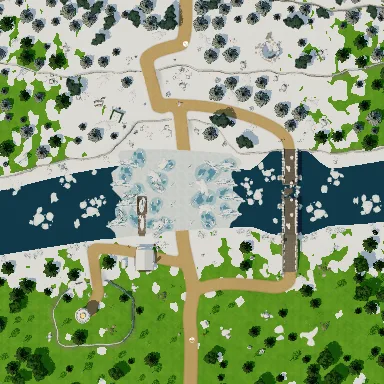
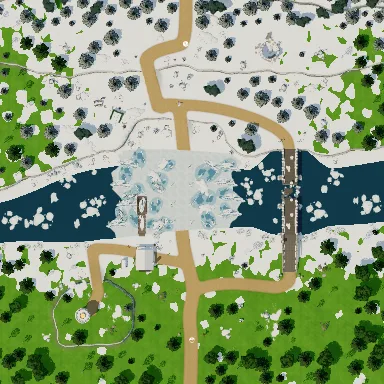
The frozen river comes out of the karst peaks; the downs' way to Highland Hill meets its gate
An arm of the jade river turns away east below the lotus pond, passes
under the road by a second slab bridge and winds out over the karst
peaks' east edge, widening and darkening into the frozen river's water,
floes coming up it from the edge. The frozen river narrows upstream to
meet it at the same place and width. Two sheer towers stand aside from
its course, and the south-east terrace's ramp and the pond path move
clear of it.

The highland downs' east way out to Highland Hill moves to n 0.44 to
meet the town's west gate, its track, arrival point and signs with it.

Claude-Session: https://claude.ai/code/session_01EoAgD4nUuveX489aYfu2wP

diff --git a/src/world3d/field_karst_peaks.ts b/src/world3d/field_karst_peaks.ts
@@ -1,14 +1,18 @@
 // ภูผาหินปูน (the karst peaks), monsters Lv 98-110: limestone country north of the ancient
 // forest, on the way up to the downs. Sheer towers of pale rock stand everywhere out of a green
 // floor, green on their ledges and tops, mist lying round their feet; a jade-green river winds
-// through it from the north-west to the south, bamboo rafts drifting on it.
+// through it from the north-west to the south, bamboo rafts drifting on it. Below the lotus pond
+// an arm of it turns away east, passes under the road by a second slab bridge and winds out
+// between the towers over the east edge, broadening and darkening as it goes: it is the frozen
+// river's head.
 //
 // The road keeps to the east bank from the way in from the forest (south) to the way on to the
 // downs (north), past a lotus pond and the raftsmen's landing. A stone slab bridge crosses to the
 // west bank, where bamboo groves crowd round a tower of two steps: two flights of stone stairs
 // climb it to a red pavilion on its top, looking out over the river. On the east bank a broad
 // tower can be climbed by an earth ramp to a lookout among the peaks, and in the south-east a
-// low terrace with a pillar rising from it. The rest of the towers stand sheer, with no way up.
+// low terrace with a pillar rising from it, its ramp on the side towards the road. The rest of the
+// towers stand sheer, with no way up.
 //
 // Up towards the north edge, where the snowy downs begin, the snow lies in the grass in patches
 // that thicken northwards and pines stand among the broadleaf trees; along the east edge,
@@ -17,6 +21,7 @@
 // Laid out at full size (north +X, west +Y) and scaled by TOWN_SCALE in finishField.
 //   ways out: south -> elder_forest, north -> highland_downs
 
+import * as THREE from "three";
 import { FieldBuilder } from "./field";
 import type { Town } from "./town";
 import { useKits, seeded } from "./town";
@@ -25,10 +30,11 @@ import type { XY } from "./kits/westmount";
 import { blobPoly } from "./kits/snowland";
 import { KIT as PLAINS } from "./kits/plains";
 import { KIT as OSAKI } from "./kits/osaki";
+import { KIT as NORTHCOLD } from "./kits/northcold";
 import type { NpcSpec } from "../npcs";
 import type { SolidSpec } from "../world";
 
-useKits(WESTMOUNT, PLAINS, OSAKI);
+useKits(WESTMOUNT, PLAINS, OSAKI, NORTHCOLD);
 
 const R = 5500; // the walkable box
 const A = 9000; // the ground
@@ -36,6 +42,47 @@ const A = 9000; // the ground
 // ---- the river: in from the north edge, winding south-west, out at the south edge ----
 const RIVER: XY[] = smooth([[A, 3200], [6000, 2600], [4200, 3400], [2600, 2400], [1000, 2900], [-600, 1900], [-2200, 2500], [-3800, 1600], [-5600, 2300], [-A, 1800]], 6);
 const RW = 700;
+const ss = (a: number, b: number, v: number) => {
+  const t = Math.min(1, Math.max(0, (v - a) / (b - a)));
+  return t * t * (3 - 2 * t);
+};
+// the arm that turns away east below the pond and goes out over the east edge to become the
+// frozen river: as wide as the jade river where it leaves it, as wide as the frozen river where it
+// meets it at the edge (the world map's picture of the field reaches 6676 out)
+const ARM: XY[] = smooth([[-400, 1950], [-100, 1150], [-200, 300], [-300, -350], [-430, -900], [-750, -1700], [-1000, -2700], [-1150, -3600], [-1500, -4450], [-1350, -5200], [-1110, -6000], [-1077, -6676], [-1077, -7600], [-1077, -9400]], 6);
+const armW = (y: number) => 700 + 711 * ss(-4300, -6676, y);
+// A strip along a polyline, `w` across at each point, as a polygon.
+function bandAlong(pts: XY[], w: (p: XY) => number): XY[] {
+  const left: XY[] = [], right: XY[] = [];
+  pts.forEach((p, i) => {
+    const a = pts[Math.max(0, i - 1)], b = pts[Math.min(pts.length - 1, i + 1)], L = Math.hypot(b[0] - a[0], b[1] - a[1]) || 1, h = w(p) / 2;
+    left.push([p[0] - ((b[1] - a[1]) / L) * h, p[1] + ((b[0] - a[0]) / L) * h]);
+    right.push([p[0] + ((b[1] - a[1]) / L) * h, p[1] - ((b[0] - a[0]) / L) * h]);
+  });
+  return [...left, ...right.reverse()];
+}
+// The arm's water, its colour running from the jade river's where it leaves it to the frozen
+// river's dark water out towards the east edge (a sheet in the ground's terms, Y up).
+function armWater(z: number): THREE.Mesh {
+  const jade = new THREE.Color("#4f8f6c"), cold = new THREE.Color("#1d4054"), pos: number[] = [], col: number[] = [], idx: number[] = [];
+  ARM.forEach((p, i) => {
+    const a = ARM[Math.max(0, i - 1)], b = ARM[Math.min(ARM.length - 1, i + 1)], L = Math.hypot(b[0] - a[0], b[1] - a[1]) || 1, h = (armW(p[1]) + 120) / 2;
+    const c = jade.clone().lerp(cold, ss(-1500, -5500, p[1]));
+    for (const s of [1, -1]) {
+      pos.push(p[0] - ((b[1] - a[1]) / L) * h * s, z, -(p[1] + ((b[0] - a[0]) / L) * h * s));
+      col.push(c.r, c.g, c.b);
+    }
+    if (i > 0) idx.push(2 * i - 2, 2 * i - 1, 2 * i, 2 * i - 1, 2 * i + 1, 2 * i);
+  });
+  const geo = new THREE.BufferGeometry();
+  geo.setAttribute("position", new THREE.Float32BufferAttribute(pos, 3));
+  geo.setAttribute("color", new THREE.Float32BufferAttribute(col, 3));
+  geo.setIndex(idx);
+  geo.computeVertexNormals();
+  const m = new THREE.Mesh(geo, new THREE.MeshStandardMaterial({ vertexColors: true, roughness: 0.06, transparent: true, opacity: 0.92 }));
+  m.receiveShadow = true;
+  return m;
+}
 
 // ---- the towers you can climb ----
 // the pavilion's tower on the west bank: a first step (400) and the top (800), stone stairs up each
@@ -49,14 +96,15 @@ const P3P: XY[] = blob(P3, 1150, 1300, 3, 20);
 const R3 = rampOff(P3P[3], P3P[4], P3, 1400, 440);
 const P4: XY = [-3000, -3300];
 const P4P: XY[] = blob(P4, 1100, 1000, 7, 20);
-const R4 = rampOff(P4P[0], P4P[1], P4, 1050, 440);
+const R4 = rampOff(P4P[4], P4P[5], P4, 1050, 440); // on its west side, towards the road (the arm runs past its north)
 const P4PILLAR: XY[] = blob([-3300, -3500], 450, 420, 9, 16);
-// sheer towers (no way up): in the field and all round past its edge
+// sheer towers (no way up): in the field and all round past its edge (two of them stand aside
+// from the arm's course)
 const TOWERS: [XY, number, number][] = [
-  [[4300, -4300], 900, 2400], [[-500, -4600], 750, 1900], [[400, -3800], 600, 1500], [[2300, 1300], 550, 1700],
+  [[4300, -4300], 900, 2400], [[-2900, -5300], 650, 1900], [[400, -3800], 600, 1500], [[2300, 1300], 550, 1700],
   [[-3500, 450], 550, 1500], [[2800, 4600], 700, 2000], [[4100, 5000], 650, 1800], [[-4800, -1700], 600, 1600],
   [[-6800, -6500], 1200, 2600], [[-7000, -2600], 1000, 2200], [[-7200, 4000], 1300, 2800], [[-6500, 7000], 1000, 2400],
-  [[0, -7200], 1300, 2600], [[3600, -7000], 1000, 2100], [[-3500, -7300], 1100, 2300], [[7000, -4000], 1200, 2800],
+  [[1400, -7400], 900, 2600], [[3600, -7000], 1000, 2100], [[-3500, -7300], 1100, 2300], [[7000, -4000], 1200, 2800],
   [[7400, -1500], 800, 2100], [[7000, 6500], 1100, 2600], [[2500, 7300], 1000, 2300], [[-2500, 7500], 1200, 2500],
   [[6500, 4900], 900, 2200], [[-7600, 700], 700, 1900],
 ];
@@ -69,11 +117,9 @@ const LANDING: XY = [3800, 2350];
 // ---- the snow: how much of the ground lies under it (0 green, 1 white), thickening northwards
 // towards the snowy downs and a little towards the frozen river on the east (the world map's
 // picture of the field reaches 6676 out) ----
-const ss = (a: number, b: number, v: number) => {
-  const t = Math.min(1, Math.max(0, (v - a) / (b - a)));
-  return t * t * (3 - 2 * t);
-};
-const snowCover = (x: number, y: number): number => 1 - (1 - 0.62 * ss(3000, 6676, x)) * (1 - 0.25 * ss(-4000, -6676, y));
+// (and more of it on the arm's banks out by the east edge, where the frozen river's shore is white)
+const snowCover = (x: number, y: number): number =>
+  1 - (1 - 0.62 * ss(3000, 6676, x)) * (1 - 0.25 * ss(-4000, -6676, y)) * (1 - 0.7 * ss(-5000, -6676, y) * (1 - ss(800, 1700, Math.abs(x + 1077))));
 // Patches where the snow shows through the grass: blobs on a jittered grid, each there with the
 // chance snowCover gives and the bigger the likelier, so they run together where it nears 1
 // (their own seed, so nothing else in the field moves).
@@ -110,6 +156,11 @@ export function build(quality: { flowers: number }): Town {
   let bax: XY = [-nb.dir[1], nb.dir[0]];
   if (bax[1] < 0) bax = [-bax[0], -bax[1]];
   const BR = { at: nb.at, off: (k: number): XY => [nb.at[0] + bax[0] * k, nb.at[1] + bax[1] * k] };
+  // and the one where the road crosses the arm
+  const na = nearestOn(ARM, [-300, -330]);
+  let aax: XY = [-na.dir[1], na.dir[0]];
+  if (aax[1] < 0) aax = [-aax[0], -aax[1]];
+  const BR2 = na.at;
 
   // ---- the road and the paths ----
   const S_EXIT: XY = [-5150, -800], N_EXIT: XY = [5150, 1760];
@@ -117,29 +168,38 @@ export function build(quality: { flowers: number }): Town {
   const BRIDGE_WAY: XY[] = [...smooth([[400, -150], [900, 900], [1300, 1700], BR.off(-850)]), ...smooth([BR.off(850), [1300, 3700], beyond(ST1.top, ST1.bottom, 400)])];
   const STAIRS: XY[] = [ST1.bottom, ST1.top, ...smooth([beyond(ST1.bottom, ST1.top, 300), [-950, 3550], [-2000, 3450], [-3000, 3600], [-3400, 4000], beyond(ST2.top, ST2.bottom, 250)]), ST2.bottom, ST2.top, beyond(ST2.bottom, ST2.top, 250)];
   const LOOKOUT_WAY: XY[] = [...smooth([[3600, 50], beyond(R3.top, R3.bottom, 400)]), R3.bottom, R3.top, ...smooth([beyond(R3.bottom, R3.top, 400), [P3[0] + 100, P3[1] + 300]])];
-  const TERRACE_WAY: XY[] = [...smooth([[-2400, -300], [-1500, -1200], [-700, -2200], beyond(R4.top, R4.bottom, 400)]), R4.bottom, R4.top, ...smooth([beyond(R4.bottom, R4.top, 350), [-2700, -2900]])];
-  const POND_WAY: XY[] = smooth([[-900, -450], [-600, 150], [-450, 650]]);
+  const TERRACE_WAY: XY[] = [...smooth([[-2400, -300], [-2650, -800], beyond(R4.top, R4.bottom, 400)]), R4.bottom, R4.top, ...smooth([beyond(R4.bottom, R4.top, 350), [-2650, -3000]])];
+  const POND_WAY: XY[] = smooth([[-1800, -400], [-1700, -150], [-1600, 30]]);
   const LANDING_WAY: XY[] = smooth([[4400, 950], [4050, 1800], LANDING]);
   const TRACKS = [ROAD, BRIDGE_WAY, STAIRS, LOOKOUT_WAY, TERRACE_WAY, POND_WAY, LANDING_WAY];
   const roads = TRACKS.map((t, i) => band(t, i === 0 ? 460 : i === 2 ? 420 : 380));
 
   const area = { x0: -A, y0: -A, x1: A, y1: A };
-  const ground = f.ground({ area, roads, plazas: [], water: [band(RIVER, RW), POND], base: "snow", road: [0.86, 0.78, 0.66] });
+  const armBand = bandAlong(ARM, (p) => armW(p[1]));
+  const ground = f.ground({ area, roads, plazas: [], water: [band(RIVER, RW), armBand, POND], base: "snow", road: [0.86, 0.78, 0.66] });
   // the grass: a second ground a hair over the snow, cut away in the patches where the snow lies
   const patches = snowPatches({ x0: 2000, x1: A, y0: -A, y1: A }, 3071).concat(snowPatches({ x0: -A, x1: 2000, y0: -A, y1: -3600 }, 3072));
-  const grass = f.ground({ area, roads, plazas: [], water: [band(RIVER, RW), POND, ...patches], base: "grass", road: [0.86, 0.78, 0.66] });
+  const grass = f.ground({ area, roads, plazas: [], water: [band(RIVER, RW), armBand, POND, ...patches], base: "grass", road: [0.86, 0.78, 0.66] });
   grass.mesh.position.y += 3;
   grass.mesh.renderOrder = 1;
 
-  // ---- the river and the pond: green water over a dark bed ----
+  // ---- the river, its arm and the pond: green water (darkening down the arm) over a dark bed ----
   const bed = sheet(band(RIVER, RW + 160), -70, "Westmount_CliffMoss");
   const river = sheet(band(RIVER, RW + 120), -14, "Westmount_River");
+  const armBed = sheet(bandAlong(ARM, (p) => armW(p[1]) + 160), -70, "Westmount_CliffMoss");
+  const arm = armWater(-15);
   const pondBed = sheet(blob(POND_C, 950, 750, 5, 22), -60, "Westmount_CliffMoss");
   const pond = sheet(blob(POND_C, 920, 720, 5, 22), -14, "Westmount_River");
   for (const part of pieces(RIVER, [BR.at], 170)) f.blockBand(part, RW + 60, { step: 230 });
+  for (const part of pieces(ARM, [BR2], 170))
+    for (let i = 0; i + 1 < part.length; i++) f.blockBand([part[i], part[i + 1]], armW((part[i][1] + part[i + 1][1]) / 2) + 60, { step: 230 });
   f.blockBand([...POND, POND[0]], 180, { step: 200 });
   f.extra.push({ kind: "water", x: POND_C[0], y: POND_C[1], r: 500 });
   put("westmount:slab_bridge", BR.at, runAlong(bax[0], bax[1]), { solid: SLAB_BRIDGE_SOLIDS });
+  put("westmount:slab_bridge", BR2, runAlong(aax[0], aax[1]), { solid: SLAB_BRIDGE_SOLIDS });
+  // floes come up the arm from the frozen river, as far as the edge of the field
+  for (const [g, h, sc] of [[[-1100, -6400], 40, 0.9], [[-1150, -5900], 200, 0.7], [[-1300, -7200], 120, 1]] as [XY, number, number][])
+    put("northcold:drift_floes", nearestOn(ARM, g).at, h, { z: -14, s: sc, solid: "none" });
 
   // ---- ways out ----
   f.exit("elder_forest", S_EXIT, [-4450, -750]);
@@ -148,7 +208,8 @@ export function build(quality: { flowers: number }): Town {
   // ---- placing things ----
   const taken: [number, number, number][] = [];
   const nearTrack = (x: number, y: number, d: number) => TRACKS.some((t) => toLine([x, y], t) < d);
-  const wet = (x: number, y: number, d: number) => toLine([x, y], RIVER) < RW / 2 + d || inPoly(POND, x, y) || Math.hypot(x - POND_C[0], y - POND_C[1]) < 800 + d;
+  const wet = (x: number, y: number, d: number) =>
+    toLine([x, y], RIVER) < RW / 2 + d || toLine([x, y], ARM) < armW(y) / 2 + d || inPoly(POND, x, y) || Math.hypot(x - POND_C[0], y - POND_C[1]) < 800 + d;
   const free = (x: number, y: number, r: number, gap = 0) =>
     [[0, 0], [r, 0], [-r, 0], [0, r], [0, -r]].every(([dx, dy]) => ground.kind(x + dx, y + dy) === 0) &&
     !wet(x, y, r * 0.5) && f.level(x, y, r) && !taken.some(([tx, ty, tr]) => Math.hypot(tx - x, ty - y) < tr + r + gap);
@@ -171,6 +232,7 @@ export function build(quality: { flowers: number }): Town {
   };
   for (const t of TRACKS) for (let i = 0; i < t.length; i += 2) take(t[i][0], t[i][1], 200);
   take(BR.at[0], BR.at[1], 900);
+  take(BR2[0], BR2[1], 900);
 
   // ---- the pavilion's tower: the stairs, the pavilion on the top ----
   for (const st of [ST1, ST2]) put("westmount:stone_stairs", [(st.top[0] + st.bottom[0]) / 2, (st.top[1] + st.bottom[1]) / 2], runAlong(st.top[0] - st.bottom[0], st.top[1] - st.bottom[1]), { solid: "none" });
@@ -251,16 +313,18 @@ export function build(quality: { flowers: number }): Town {
     const n = nearestOn(RIVER, g);
     put("westmount:karst_spire", [n.at[0] + (rnd() - 0.5) * 120, n.at[1] + (rnd() - 0.5) * 120], rnd() * 360, { s: 0.45 + rnd() * 0.2, ...ring(150) });
   }
-  // the reeds and rocks along the banks
-  for (let i = 2; i < RIVER.length - 2; i += 2) {
-    const [ax, ay] = RIVER[i], [bx, by] = RIVER[i + 1], L = Math.hypot(bx - ax, by - ay) || 1;
-    for (const s of [-1, 1]) {
-      if (rnd() < 0.4) continue;
-      const o = RW / 2 + 60 + rnd() * 100, x = ax - ((by - ay) / L) * s * o, y = ay + ((bx - ax) / L) * s * o;
-      if (!inBox(x, y) || nearTrack(x, y, 300) || !f.level(x, y, 100) || taken.some(([tx, ty, tr]) => Math.hypot(tx - x, ty - y) < tr + 80)) continue;
-      prop(rnd() < 0.6 ? "plains:reeds" : "plains:flat_rock", [x, y], rnd() * 360, 90, { s: 0.6 + rnd() * 0.4, solid: "none" });
+  // the reeds and rocks along the banks of the river and its arm (none out in the other's water)
+  for (const [line, half, other] of [[RIVER, () => RW / 2, ARM], [ARM, (y: number) => armW(y) / 2, RIVER]] as [XY[], (y: number) => number, XY[]][])
+    for (let i = 2; i < line.length - 2; i += 2) {
+      const [ax, ay] = line[i], [bx, by] = line[i + 1], L = Math.hypot(bx - ax, by - ay) || 1;
+      for (const s of [-1, 1]) {
+        if (rnd() < 0.4) continue;
+        const o = half(ay) + 60 + rnd() * 100, x = ax - ((by - ay) / L) * s * o, y = ay + ((bx - ax) / L) * s * o;
+        if (!inBox(x, y) || nearTrack(x, y, 300) || !f.level(x, y, 100) || taken.some(([tx, ty, tr]) => Math.hypot(tx - x, ty - y) < tr + 80)) continue;
+        if (other === ARM ? toLine([x, y], ARM) < armW(y) / 2 + 40 : toLine([x, y], RIVER) < RW / 2 + 40) continue;
+        prop(rnd() < 0.6 ? "plains:reeds" : "plains:flat_rock", [x, y], rnd() * 360, 90, { s: 0.6 + rnd() * 0.4, solid: "none" });
+      }
     }
-  }
 
   // ---- past the edge: woods and bamboo between the towers (pines among them towards the snowy
   // north), greenery on their tops ----
@@ -282,6 +346,7 @@ export function build(quality: { flowers: number }): Town {
         "แม่น้ำสายนี้เขียวใสเหมือนหยก ไหลมาจากเขาทางเหนือ ข้าถ่อแพอยู่ที่นี่มาทั้งชีวิตแล้ว",
         "เช้า ๆ หมอกจะลอยคลุมโคนผาจนมองไม่เห็นฝั่ง อย่าเดินเข้าใกล้น้ำตอนนั้นนะ",
         "ทางเหนือขึ้นไปเป็นที่ราบเนินเขาของไฮแลนด์ ทางใต้ลงไปก็ป่าโบราณ",
+        "ใต้สระบัวมีแควแยกออกไปทางตะวันออก ยิ่งไหลไปน้ำยิ่งเข้มยิ่งเย็น ออกไปพ้นผาก็กลายเป็นแม่น้ำเยือกแข็ง",
       ] },
     { id: "karst_painter", x: PAVILION[0] - 700, y: PAVILION[1] + 450, face: 30, name: "ซิ่วหลาน", title: "จิตรกรแห่งศาลาริมผา", role: "talk",
       look: { gender: "female", hair: "twintail", hairColor: "rose", eyes: "teal", top: "top_adventurer_teal", bottom: "bottom_adventurer_sand" },
@@ -293,7 +358,7 @@ export function build(quality: { flowers: number }): Town {
 
   return f.finishField({
     ground,
-    scenery: [grass.mesh, bed, river, pondBed, pond],
+    scenery: [grass.mesh, bed, river, armBed, arm, pondBed, pond],
     sky: "#b9c9c4",
     flowers: { box: { x: -R, y: -R, w: 2 * R, h: 2 * R }, open: (x, y) => ground.kind(x, y) === 0 && grass.kind(x, y) === 0 && f.h(x, y) < 60 && !wet(x, y, 150), density: 0.14 * quality.flowers },
     bounds: { minX: -R, maxX: R, minY: -R, maxY: R },
@@ -308,6 +373,7 @@ export function build(quality: { flowers: number }): Town {
       { x: P3[0], y: P3[1] + 300, text: "ยอดผาชมวิว" },
       { x: LANDING[0], y: LANDING[1] - 400, text: "ท่าแพ", kind: "small" },
       { x: BR.at[0] - 500, y: BR.at[1], text: "สะพานแผ่นหิน", kind: "small" },
+      { x: -600, y: -4500, text: "ต้นแม่น้ำเยือกแข็ง", kind: "small" },
       { x: 400, y: 4700, text: "ป่าไผ่", kind: "small" },
       { x: P4[0] + 300, y: P4[1] + 300, text: "ลานผาใต้", kind: "small" },
     ],

diff --git a/src/world3d/field_highland_downs.ts b/src/world3d/field_highland_downs.ts
@@ -131,9 +131,9 @@ export function build(quality: { flowers: number }): Town {
   const { put, rnd } = f;
 
   // ---- tracks ----
-  const E_EXIT: XY = [600, -5150], S_EXIT: XY = [-5150, 1800];
+  const E_EXIT: XY = [-660, -5150], S_EXIT: XY = [-5150, 1800];
   const J: XY = [-300, -500];
-  const MAIN_E = smooth([[600, -7600], E_EXIT, [700, -4400], [400, -3500], [-100, -2600], [-350, -1600], J]);
+  const MAIN_E = smooth([[-650, -7600], E_EXIT, [-550, -4300], [-300, -3500], [-100, -2600], [-350, -1600], J]);
   const MAIN_S = smooth([J, [-900, 100], [-1700, 600], [-2700, 950], [-3600, 1300], [-4400, 1700], S_EXIT, [-7600, 1900]]);
   const r1in = along(RAMP1.bottom, RAMP1.top, -600), r1out = along(RAMP1.bottom, RAMP1.top, rampLen(RAMP1) + 450);
   const r2in = along(RAMP2.bottom, RAMP2.top, -350), r2out = along(RAMP2.bottom, RAMP2.top, rampLen(RAMP2) + 420);
@@ -144,7 +144,7 @@ export function build(quality: { flowers: number }): Town {
   const DOWN = [...smooth([[-330, -1350], [-900, -900], r3in]), RAMP3.bottom, RAMP3.top, ...smooth([r3out, along(CAIRN, r3out, 420)])];
   const BOTHY: XY = [2550, -2750];
   const FOLD: XY = [3550, -4000];
-  const SHEP = smooth([[400, -3500], [900, -3050], [1500, -2850], [2000, -2850]]);
+  const SHEP = smooth([[-280, -3400], [500, -3050], [1500, -2850], [2000, -2850]]);
   const roads = [band(MAIN_E, 470), band(MAIN_S, 450), band(UP, 420), band(DOWN, 400), band(SHEP, 380)];
   const tracks = [MAIN_E, MAIN_S, UP, DOWN, SHEP];
 
@@ -173,7 +173,7 @@ export function build(quality: { flowers: number }): Town {
   const grassy = (x: number, y: number) => snow.kind(x, y) === 3 && !inPoly(TARN, x, y);
 
   // ---- ways out ----
-  f.exit("highland", E_EXIT, [640, -4450]);
+  f.exit("highland", E_EXIT, [-620, -4450]);
   f.exit("karst_peaks", S_EXIT, [-4450, 1720]);
 
   // ---- the tarn: dark still water, ice along its edges ----
@@ -209,8 +209,8 @@ export function build(quality: { flowers: number }): Town {
   };
 
   // ---- the ways out: a sign and a cairn at each ----
-  prop("snowland:trail_sign", [1000, -4950], 180, 80, ring(30, "post"));
-  prop("snowland:cairn", [180, -4900], 0, 70, ring(45));
+  prop("snowland:trail_sign", [-260, -4950], 180, 80, ring(30, "post"));
+  prop("snowland:cairn", [-1080, -4900], 0, 70, ring(45));
   prop("snowland:trail_sign", [-4900, 1350], 90, 80, ring(30, "post"));
   prop("snowland:cairn", [-4850, 2250], 0, 70, ring(45));
   // cairns along the tracks and where they part
@@ -293,7 +293,7 @@ export function build(quality: { flowers: number }): Town {
   // ---- rocks and drifts ----
   const ROCKS: [string, XY, number][] = [
     ["snow_boulder", [-4300, -1500], 130], ["rock_cluster", [-1800, -1600], 190], ["flat_slabs", [-4200, 2600], 150], ["snow_boulder", [-2900, 4200], 130],
-    ["rock_cluster", [-500, -4200], 190], ["snow_boulder", [-200, 3500], 130], ["flat_slabs", [1300, 300], 150], ["rock_cluster", [4100, -1100], 190],
+    ["rock_cluster", [-1100, -3900], 190], ["snow_boulder", [-200, 3500], 130], ["flat_slabs", [1300, 300], 150], ["rock_cluster", [4100, -1100], 190],
     ["snow_boulder", [2000, -3600], 130], ["flat_slabs", [4900, -2700], 150], ["snow_boulder", [-5000, -4600], 130], ["rock_cluster", [-3800, -2700], 190],
     ["snow_boulder", [3900, 4400], 130], ["flat_slabs", [1600, 3600], 150], ["snow_boulder", [5000, 600], 130], ["rock_cluster", [-4000, 5000], 190],
   ];
@@ -362,7 +362,7 @@ export function build(quality: { flowers: number }): Town {
     sky: "#c5d0d8",
     flowers: { box: { x: -R, y: -R, w: 2 * R, h: 2 * R }, open: (x, y) => grassy(x, y) && ground.kind(x, y) === 0 && !inPoly(TARN, x, y), density: 0.05 * quality.flowers },
     bounds: { minX: -R, maxX: R, minY: -R, maxY: R },
-    spawn: { x: 560, y: -4300 },
+    spawn: { x: -560, y: -4300 },
     npcs,
     labels: [
       { x: E_EXIT[0], y: E_EXIT[1] + 150, text: "ทางไปไฮแลนด์ ฮิล", kind: "gate" },

diff --git a/src/world3d/field_frozen_river.ts b/src/world3d/field_frozen_river.ts
@@ -1,5 +1,6 @@
 // แม่น้ำเยือกแข็ง (the frozen river), monsters Lv 122-134: the great river between Noa's plains
-// and the snow country, here 25-30 m wide and running east to west across the field. The south
+// and the snow country, here 25-30 m wide and running east to west across the field, narrower
+// upstream to the west where it comes out of the karst country (the karst peaks). The south
 // bank is still Noa's green country, the frost and the lying snow thickening towards the river
 // until the shore is white: birches and pines, a few broadleaf trees out towards Noa, reeds
 // frozen into the shore ice, a knoll with an old beacon tower. The north bank is snow and rises
@@ -50,7 +51,8 @@ const ss = (a: number, b: number, x: number) => {
 // near the bridge the banks are drawn straight and exactly three spans apart
 const atBridge = (y: number) => 1 - ss(400, 1500, Math.abs(y - BY));
 const mid = (y: number) => -100 - 0.09 * y + 260 * Math.sin(y / 2300 + 0.7);
-const wide = (y: number) => 2700 + 0.03 * y + 200 * Math.sin(y / 1700);
+// (narrowing upstream towards the west edge, to meet the arm of the jade river it comes from)
+const wide = (y: number) => (2700 + 0.03 * y + 200 * Math.sin(y / 1700)) * (1 - 0.3 * ss(3500, 6676, y));
 const xs = (y: number) => mid(y) - wide(y) / 2 + (-1500 - (mid(y) - wide(y) / 2)) * atBridge(y); // the south bank
 const xn = (y: number) => mid(y) + wide(y) / 2 + (1500 - (mid(y) + wide(y) / 2)) * atBridge(y); // the north bank (the cliff)
 // where the ice ends: upstream (west) and downstream (east), each a ragged line across
@@ -292,11 +294,11 @@ export function build(_quality: { flowers: number }): Town {
   }
   // floes in the open water
   for (const [x, y, h, s] of [
-    [-600, 3600, 20, 1], [400, 4300, 140, 0.8], [-900, 5200, 250, 1.1], [200, 6200, 60, 0.9], [-300, 3200, 300, 0.6],
+    [-600, 3600, 20, 1], [400, 4300, 140, 0.8], [-900, 5200, 250, 1.1], [-1000, 6300, 60, 0.9], [-300, 3200, 300, 0.6],
     [-200, -2200, 100, 0.9], [600, -2700, 200, 0.7], [-700, -4300, 30, 1], [500, -5000, 160, 0.8], [-400, -6200, 280, 1.1], [300, -1900, 330, 0.6],
   ] as [number, number, number, number][]) put("northcold:drift_floes", [x, y], h, { z: -14, s, solid: "none" });
   const floeMat = material("Northcold_Floe"), floes: THREE.Object3D[] = [];
-  for (const [x, y, r, s] of [[-1100, 4000, 150, 61], [700, 3400, 120, 62], [-200, 4800, 180, 63], [900, -2400, 140, 64], [-1000, -2900, 110, 65], [100, -4600, 160, 66], [-300, -5700, 130, 67], [800, 5600, 140, 68]] as number[][])
+  for (const [x, y, r, s] of [[-1100, 4000, 150, 61], [700, 3400, 120, 62], [-200, 4800, 180, 63], [900, -2400, 140, 64], [-1000, -2900, 110, 65], [100, -4600, 160, 66], [-300, -5700, 130, 67], [-1100, 5750, 140, 68]] as number[][])
     floes.push(flatSheet(blobPoly([x, y], r, r * 0.7, s, 0.25, 10), -11, floeMat));
 
   // ---- the frozen stretch: a skin of white ice over it, plates of darker ice, heaved ridges at
